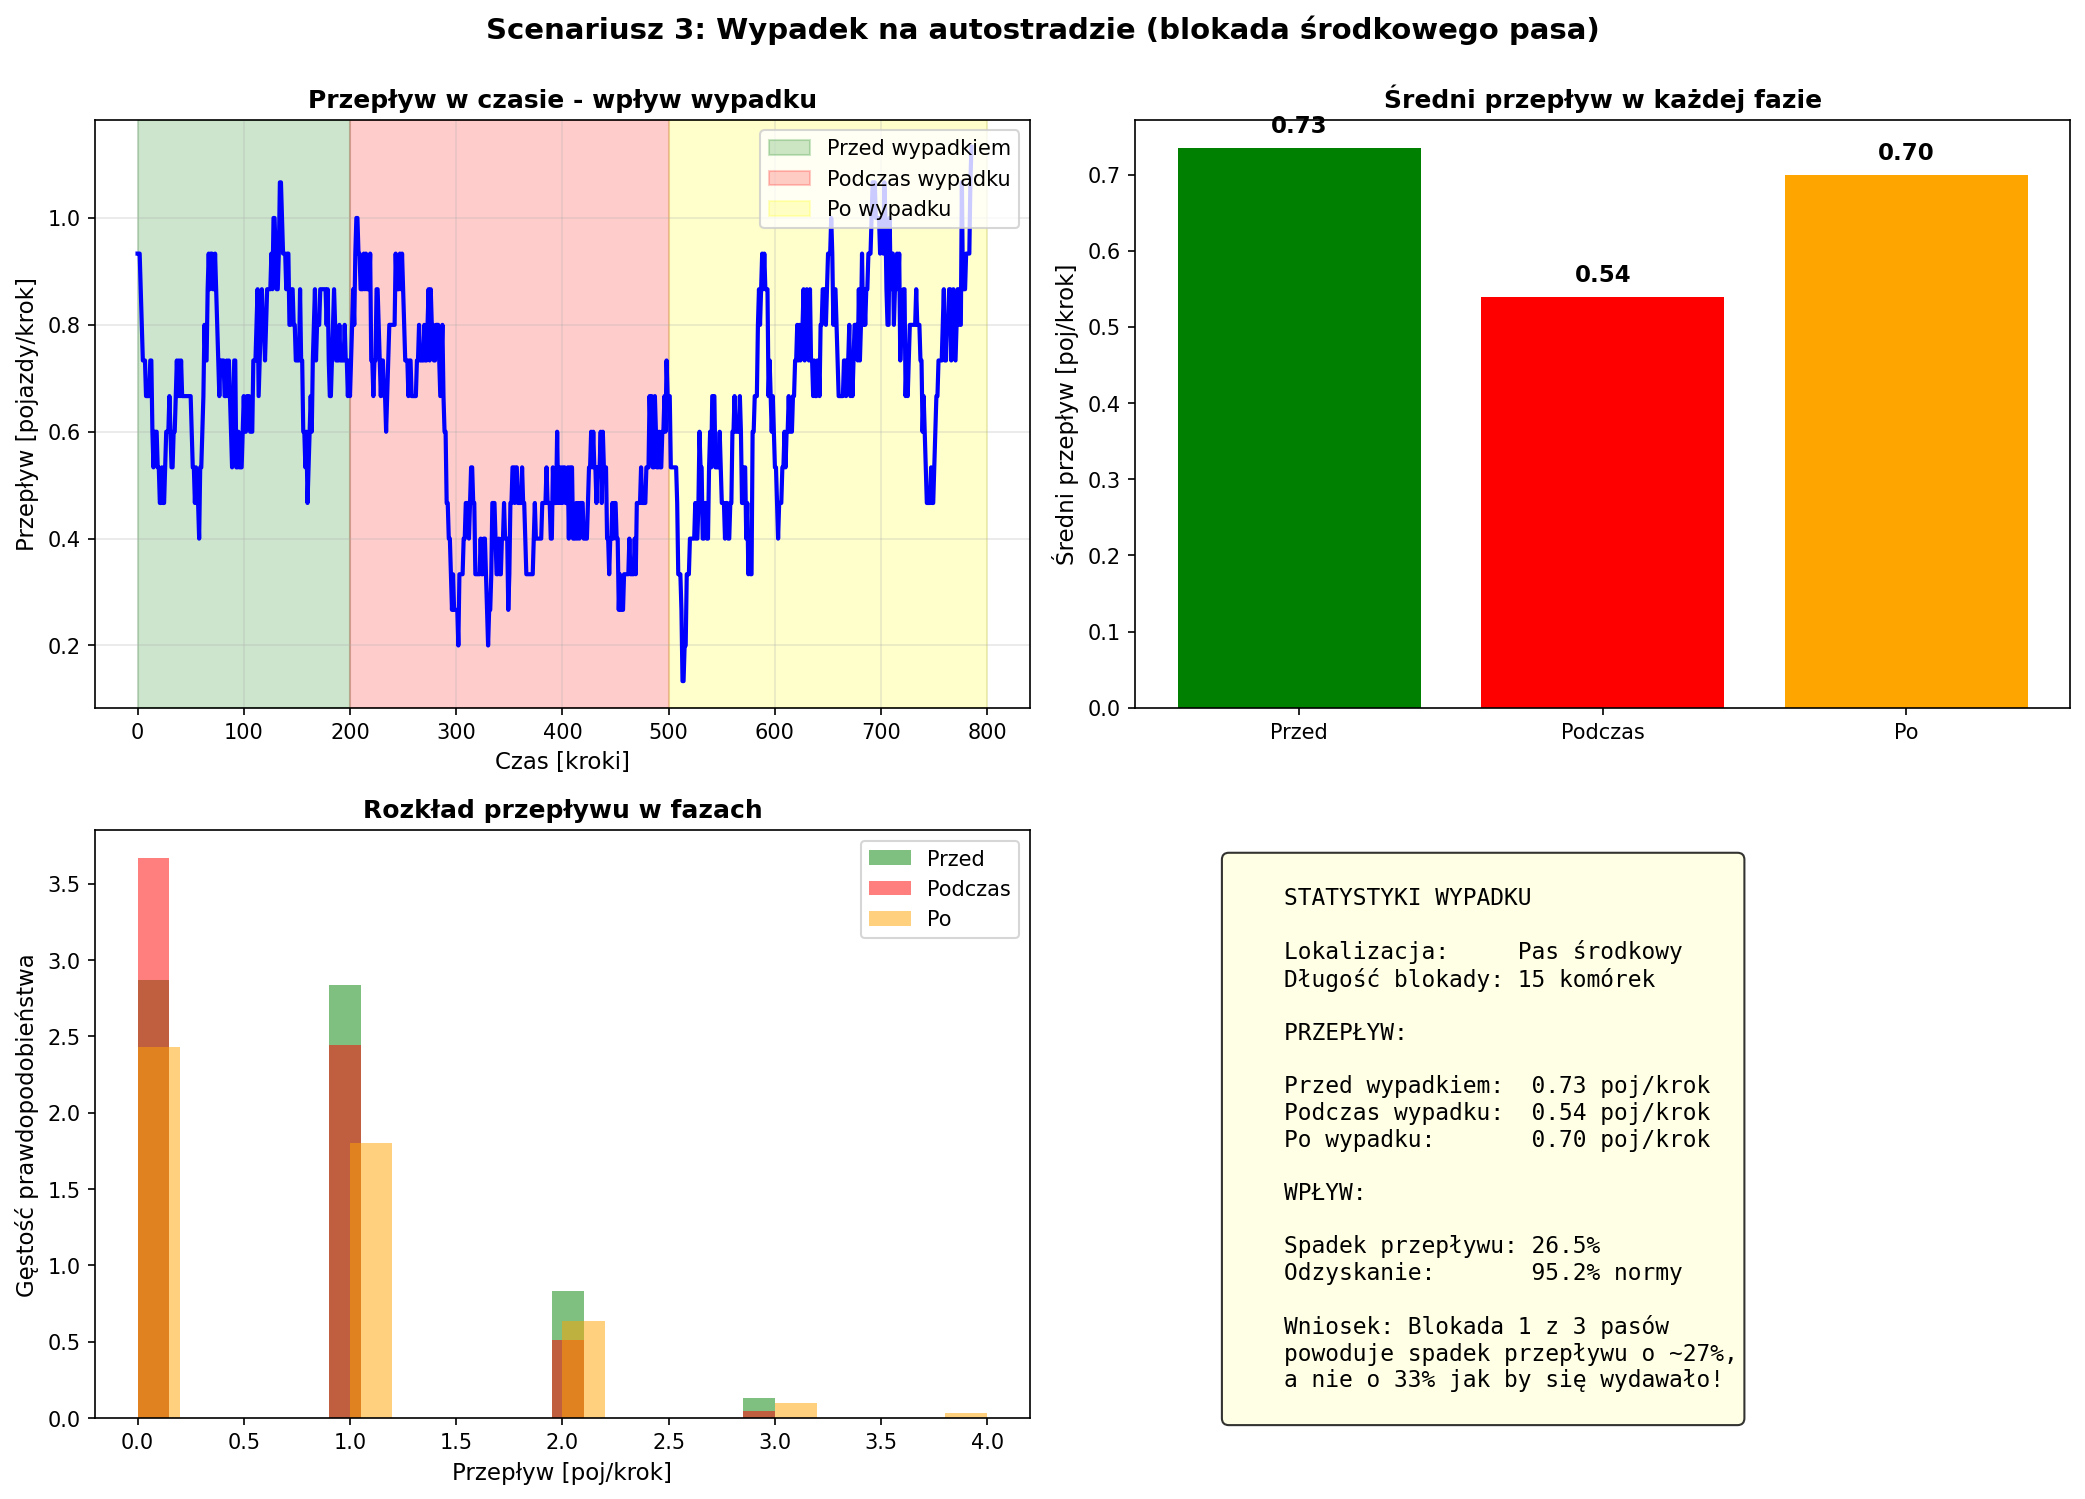
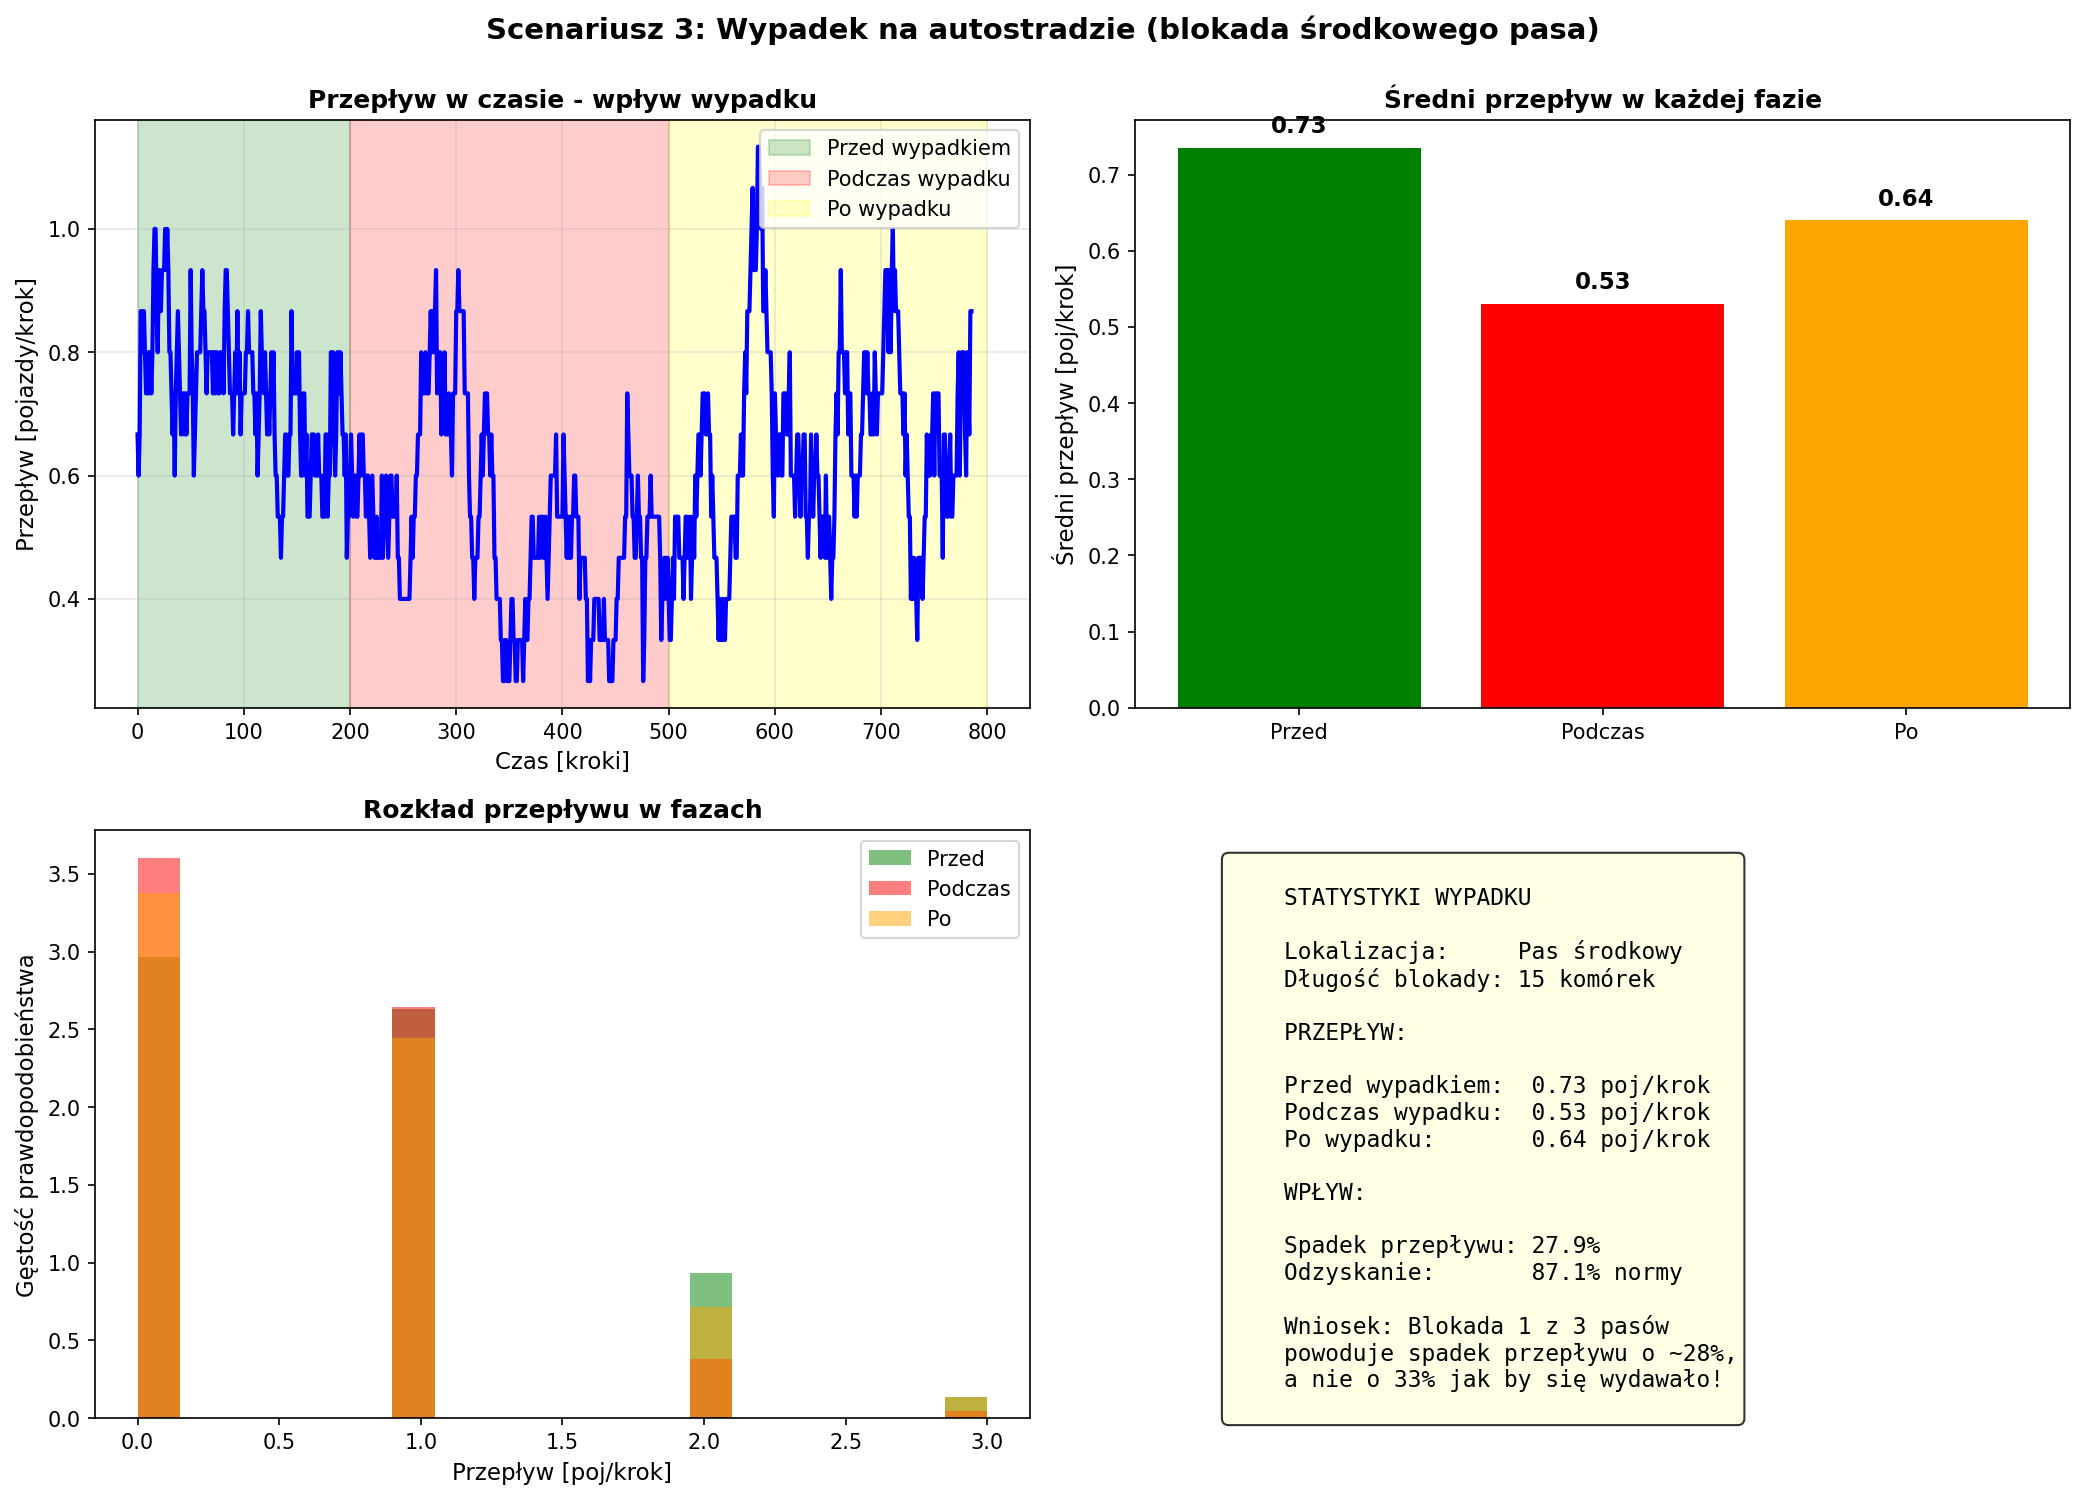
lights_scenario

diff --git a/scenarios.py b/scenarios.py
@@ -154,91 +154,155 @@ def scenario_shockwave(save_path: str = "scenario_shockwave.png"):
     plt.show()
 
 
-def scenario_lanes_comparison(save_path: str = "scenario_lanes.png"):
-    """Porównanie przepustowości 1 vs 2 vs 3 pasy."""
+def scenario_light_timing(save_path: str = "scenario_lights.png"):
+    """Wpływ czasu cyklu świateł na powstawanie korków przy różnych gęstościach."""
     print("=" * 60)
-    print("SCENARIUSZ: Porównanie 1 vs 3 pasy")
+    print("SCENARIUSZ: Światła - krótki vs długi cykl")
     print("=" * 60)
     
-    length = 200
-    density = 0.25
-    steps = 500
+    length = 150
+    lanes = 1
+    warmup = 100
+    spacetime_steps = 200
+    
+    configs = [
+        ('Niski ruch\nkrótki cykl', 0.12, 15),
+        ('Niski ruch\ndługi cykl', 0.12, 50),
+        ('Wysoki ruch\nkrótki cykl', 0.30, 15),
+        ('Wysoki ruch\ndługi cykl', 0.30, 50),
+    ]
     
     results = {}
+    spacetime_data = {}
     
-    for lanes in [1, 2, 3]:
-        print(f"Symulacja dla {lanes} pasów...")
-        sim = create_simulation(length=length, lanes=lanes, density=density)
+    for name, density, cycle in configs:
+        print(f"Symulacja: gęstość {density*100:.0f}%, cykl {cycle}...")
         
-        for _ in range(200):
+        random.seed(123)
+        np.random.seed(123)
+        
+        light_pos = length // 2
+        light = SpeedLimit(
+            pos_start=Position(x=light_pos, lane=0),
+            pos_end=Position(x=light_pos + 2, lane=0),
+            v_max=0,
+            ticks=cycle // 2,
+            active=True
+        )
+        
+        sim = create_simulation(length=length, lanes=lanes, density=density,
+                               speed_limits=[light])
+        
+        for _ in range(warmup):
             sim.step()
+        
+        st_data = collect_spacetime_data(sim, spacetime_steps)
+        spacetime_data[name] = st_data
         
         sim.stats.cumulative_flow = 0
         sim.stats.step_count = 0
+        flows = collect_flow_data(sim, 300)
         
-        flows = collect_flow_data(sim, steps)
-        
-        results[lanes] = {
-            'flows': flows,
+        results[name] = {
+            'density': density,
+            'cycle': cycle,
             'avg_flow': np.mean(flows),
-            'total_flow': sum(flows)
+            'std_flow': np.std(flows)
         }
+        print(f"  Przepływ: {results[name]['avg_flow']:.3f}")
+    
+    fig, axes = plt.subplots(2, 3, figsize=(16, 10))
+    
+    # Diagramy czasoprzestrzenne (2x2)
+    for idx, (name, data) in enumerate(spacetime_data.items()):
+        row, col = idx // 2, idx % 2
+        ax = axes[row, col]
         
-        print(f"  Średni przepływ: {results[lanes]['avg_flow']:.2f} poj/krok")
+        st = data[:, 0, :]
+        st_plot = np.where(st >= 0, st, np.nan)
+        
+        im = ax.imshow(st_plot.T, aspect='auto', cmap='RdYlGn',
+                      origin='lower', vmin=0, vmax=5)
+        
+        # Zaznaczenie pozycji światła
+        ax.axhline(y=length//2, color='white', linestyle='--', linewidth=1, alpha=0.7)
+        
+        ax.set_xlabel('Czas [kroki]', fontsize=10)
+        ax.set_ylabel('Pozycja', fontsize=10)
+        ax.set_title(name, fontsize=11, fontweight='bold')
     
-    fig, axes = plt.subplots(1, 3, figsize=(15, 5))
-    colors = {1: 'red', 2: 'orange', 3: 'green'}
+    # Colorbar
+    cbar = plt.colorbar(im, ax=axes[0, 1], shrink=0.8, pad=0.02)
+    cbar.set_label('Prędkość', fontsize=10)
     
-    ax1 = axes[0]
-    for lanes, data in results.items():
-        window = 20
-        smoothed = np.convolve(data['flows'], np.ones(window)/window, mode='valid')
-        ax1.plot(smoothed, color=colors[lanes], label=f'{lanes} pas{"y" if lanes > 1 else ""}', linewidth=2)
+    # Porównanie przepływu
+    ax_bar = axes[0, 2]
+    names_short = ['Niski/krótki', 'Niski/długi', 'Wysoki/krótki', 'Wysoki/długi']
+    avgs = [results[n]['avg_flow'] for n in spacetime_data.keys()]
+    colors = ['lightblue', 'blue', 'lightcoral', 'darkred']
     
-    ax1.set_xlabel('Czas [kroki]', fontsize=11)
-    ax1.set_ylabel('Przepływ [pojazdy/krok]', fontsize=11)
-    ax1.set_title('Przepływ w czasie', fontsize=12, fontweight='bold')
-    ax1.legend()
-    ax1.grid(True, alpha=0.3)
+    bars = ax_bar.bar(range(4), avgs, color=colors)
+    ax_bar.set_xticks(range(4))
+    ax_bar.set_xticklabels(names_short, fontsize=9, rotation=15, ha='right')
+    ax_bar.set_ylabel('Przepływ [poj/krok]', fontsize=11)
+    ax_bar.set_title('Porównanie przepływu', fontsize=12, fontweight='bold')
     
-    ax2 = axes[1]
-    lanes_list = list(results.keys())
-    avg_flows = [results[l]['avg_flow'] for l in lanes_list]
+    for bar, val in zip(bars, avgs):
+        ax_bar.text(bar.get_x() + bar.get_width()/2, bar.get_height() + 0.005,
+                   f'{val:.3f}', ha='center', fontsize=9, fontweight='bold')
+    ax_bar.grid(True, alpha=0.3, axis='y')
     
-    bars = ax2.bar(lanes_list, avg_flows, color=[colors[l] for l in lanes_list])
-    ax2.set_xlabel('Liczba pasów', fontsize=11)
-    ax2.set_ylabel('Średni przepływ [poj/krok]', fontsize=11)
-    ax2.set_title('Średni przepływ vs liczba pasów', fontsize=12, fontweight='bold')
-    ax2.set_xticks(lanes_list)
+    # Wnioski
+    ax_text = axes[1, 2]
+    ax_text.axis('off')
     
-    for bar, val in zip(bars, avg_flows):
-        ax2.text(bar.get_x() + bar.get_width()/2, bar.get_height() + 0.02,
-                f'{val:.2f}', ha='center', fontsize=10)
+    low_short = results['Niski ruch\nkrótki cykl']['avg_flow']
+    low_long = results['Niski ruch\ndługi cykl']['avg_flow']
+    high_short = results['Wysoki ruch\nkrótki cykl']['avg_flow']
+    high_long = results['Wysoki ruch\ndługi cykl']['avg_flow']
     
-    ax3 = axes[2]
-    efficiency = [results[l]['avg_flow'] / l for l in lanes_list]
+    diff_low = (low_long / low_short - 1) * 100
+    diff_high = (high_long / high_short - 1) * 100
     
-    bars3 = ax3.bar(lanes_list, efficiency, color=[colors[l] for l in lanes_list])
-    ax3.set_xlabel('Liczba pasów', fontsize=11)
-    ax3.set_ylabel('Przepływ na pas [poj/krok/pas]', fontsize=11)
-    ax3.set_title('Efektywność na pas', fontsize=12, fontweight='bold')
-    ax3.set_xticks(lanes_list)
+    conclusions = f"""
+    ANALIZA WYNIKÓW
+
+    Przy NISKIM ruchu (12%):
+    Krótki cykl: {low_short:.3f}
+    Długi cykl:  {low_long:.3f}
+    Różnica: {diff_low:+.1f}%
+
+    Przy WYSOKIM ruchu (30%):
+    Krótki cykl: {high_short:.3f}
+    Długi cykl:  {high_long:.3f}
+    Różnica: {diff_high:+.1f}%
+
+    WNIOSEK:
     
-    for bar, val in zip(bars3, efficiency):
-        ax3.text(bar.get_x() + bar.get_width()/2, bar.get_height() + 0.01,
-                f'{val:.3f}', ha='center', fontsize=10)
+    Przy wysokim natężeniu krótki cykl
+    tworzy KOLEJKĘ przed światłem -
+    widać czerwone pasy propagujące
+    się wstecz (efekt fali).
+
+    Długi cykl pozwala rozładować
+    kolejkę zanim zmieni się na
+    czerwone.
+    """
     
-    plt.suptitle(f'Scenariusz 2: Porównanie 1 vs 2 vs 3 pasy (gęstość: {density*100:.0f}%)', 
-                 fontsize=14, fontweight='bold', y=1.00)
+    ax_text.text(0.05, 0.95, conclusions, transform=ax_text.transAxes, fontsize=10,
+                verticalalignment='top', fontfamily='monospace',
+                bbox=dict(boxstyle='round', facecolor='lightyellow', alpha=0.8))
+    
+    plt.suptitle('Scenariusz 2: Wpływ czasu cyklu świateł na ruch przy różnych gęstościach', 
+                 fontsize=14, fontweight='bold', y=0.995)
     plt.tight_layout()
     plt.savefig(save_path, dpi=150, bbox_inches='tight')
     print(f"\nZapisano: {save_path}")
     plt.show()
     
-    print(f"\n  1 pas:  {results[1]['avg_flow']:.3f} poj/krok (bazowy)")
-    print(f"  2 pasy: {results[2]['avg_flow']:.3f} poj/krok ({results[2]['avg_flow']/results[1]['avg_flow']:.1f}x)")
-    print(f"  3 pasy: {results[3]['avg_flow']:.3f} poj/krok ({results[3]['avg_flow']/results[1]['avg_flow']:.1f}x)")
-    print(f"\n  → 3 pasy ≠ 3× przepływ! (efekt zmiany pasów)")
+    print("\nPODSUMOWANIE:")
+    print(f"  Niski ruch: zmiana cyklu daje {diff_low:+.1f}% przepływu")
+    print(f"  Wysoki ruch: zmiana cyklu daje {diff_high:+.1f}% przepływu")
 
 
 def scenario_accident(save_path: str = "scenario_accident.png"):
@@ -607,15 +671,6 @@ def pygame_shockwave():
     view.run()
 
 
-def pygame_lanes():
-    print("LANES - Symulacja 3-pasmowa")
-    sim = create_simulation(length=150, lanes=3, density=0.22)
-    for _ in range(100):
-        sim.step()
-    view = PygameView(simulation=sim, cell_size=25, fps=10, window_width=1400)
-    view.run()
-
-
 def pygame_accident():
     print("ACCIDENT - Wypadek na środkowym pasie")
     length = 150
@@ -674,7 +729,7 @@ def run_all_scenarios():
     
     scenario_shockwave()
     print("\n")
-    scenario_lanes_comparison()
+    scenario_light_timing()
     print("\n")
     scenario_accident()
     print("\n")
@@ -685,7 +740,7 @@ def run_all_scenarios():
     print("\nWszystkie scenariusze zakończone!")
     print("Wygenerowane pliki:")
     print("  - scenario_shockwave.png")
-    print("  - scenario_lanes.png")
+    print("  - scenario_lights.png")
     print("  - scenario_accident.png")
     print("  - scenario_drivers.png")
     print("  - scenario_speedlimit.png")
@@ -696,7 +751,7 @@ def main():
     
     parser = argparse.ArgumentParser(description="Scenariusze demonstracyjne NaSch")
     parser.add_argument("scenario", nargs='?', default="all",
-                        choices=['all', 'shockwave', 'lanes', 'accident', 'drivers', 'speedlimit', 'lights'])
+                        choices=['all', 'shockwave', 'lighttiming', 'accident', 'drivers', 'speedlimit', 'lights'])
     parser.add_argument("--no-show", action="store_true")
     parser.add_argument("--pygame", "-p", action="store_true")
     
@@ -705,7 +760,6 @@ def main():
     if args.pygame:
         pygame_scenarios = {
             'shockwave': pygame_shockwave,
-            'lanes': pygame_lanes,
             'accident': pygame_accident,
             'speedlimit': pygame_speedlimit,
             'lights': pygame_traffic_lights,
@@ -716,8 +770,8 @@ def main():
             print("  python scenarios.py shockwave --pygame")
             return
         
-        if args.scenario == 'drivers':
-            print("Scenariusz 'drivers' nie ma wersji pygame (wymaga porównania)")
+        if args.scenario in ['drivers', 'lighttiming']:
+            print(f"Scenariusz '{args.scenario}' nie ma wersji pygame (wymaga porównania)")
             return
             
         pygame_scenarios[args.scenario]()
@@ -729,7 +783,7 @@ def main():
     
     chart_scenarios = {
         'shockwave': scenario_shockwave,
-        'lanes': scenario_lanes_comparison,
+        'lighttiming': scenario_light_timing,
         'accident': scenario_accident,
         'drivers': scenario_driver_behavior,
         'speedlimit': scenario_speed_limit,
